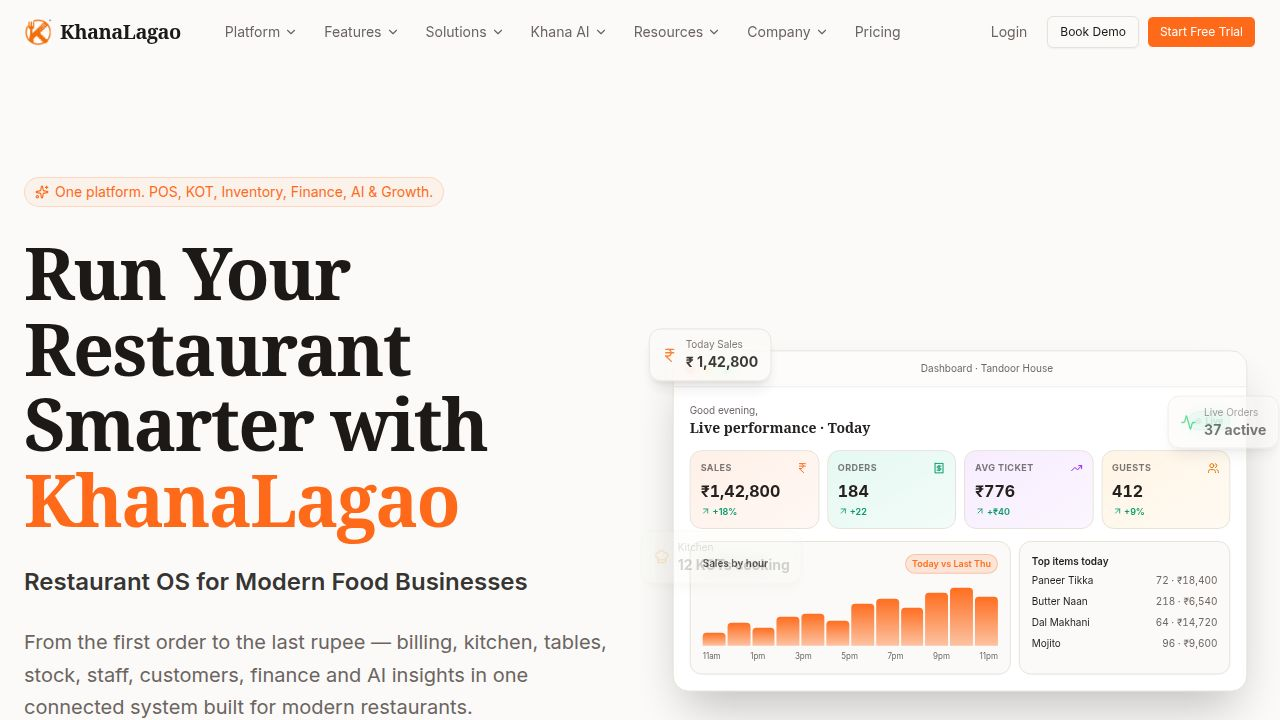
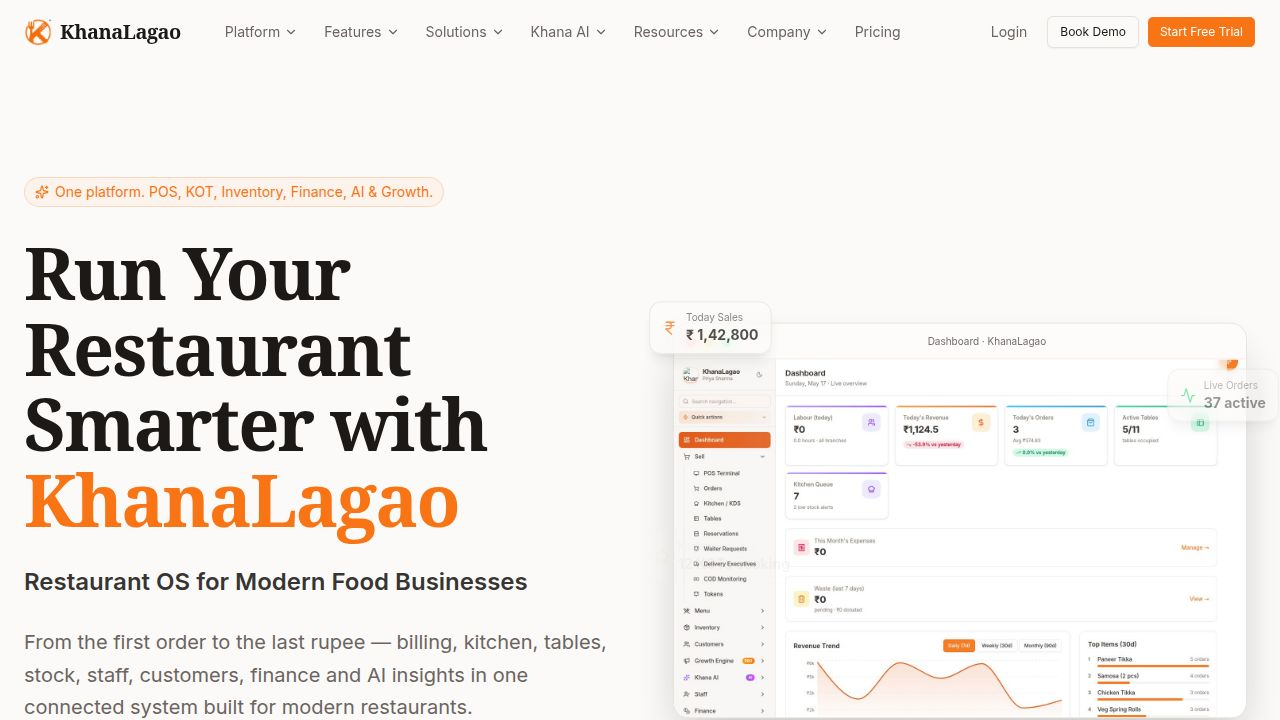
Task #345: Replace marketing-site mockups with real product screenshots.
- Captured 8 polished screenshots from the live restaurant-platform via
  the impersonation hash (#impersonate=<jwt>) using owner seed creds
  (priya@spicegarden.com). Stored as JPEG at 1440x900 in
  artifacts/marketing-site/public/screenshots/:
    dashboard, pos, kitchen (KDS), inventory, pnl, reports, orders, ai.

- Added ScreenshotMockup wrapper in components/mockups/index.tsx that
  renders an <img> inside the same BrowserFrame chrome the CSS mockups
  use, keeping visual consistency. Pointed the MOCKUPS map for
  dashboard / pos / kds / inventory / finance / reports / ai (and a new
  `orders` key) at real screenshots. Kept the CSS mockups exported as
  fallbacks for keys without a screenshot (qr, payroll, growth,
  superadmin, mobile) and as defensive fallbacks if an image fails.

- Updated HeroSection to consume MOCKUPS.dashboard so the hero shows
  the real dashboard, preserving the existing FloatCards overlay.

- Updated shared/ProductMockup (used by SolutionPage and AIPage) to
  render real screenshots for the `dashboard`, `pos`, `kds`, `report`
  kinds, falling back to the existing CSS skeleton bodies otherwise.

- Verified hero, /features/pos-billing, and /features/reports render
  the real screenshots correctly inside the browser-frame chrome.

Replit-Task-Id: dc65232b-e038-47ee-a356-732c3a4ce8c2

Changed region(s): [[0.5, 0.4278, 1.0, 1.0], [0.7188, 0.4583, 0.8125, 0.5194], [0.9062, 0.7333, 0.9375, 0.7639]]

diff --git a/artifacts/marketing-site/src/components/mockups/index.tsx b/artifacts/marketing-site/src/components/mockups/index.tsx
@@ -6,6 +6,7 @@
  * is to look like a real screenshot (tables, charts, badges, status pills,
  * order cards, live metrics) rather than generic placeholder boxes.
  */
+import * as React from "react";
 import type { ReactNode } from "react";
 import {
   IndianRupee, ChefHat, Clock, AlertTriangle, TrendingUp, Users,
@@ -687,22 +688,71 @@ export function MobileAppMockup() {
 }
 
 /* -------------------------------------------------------------------------- */
+/* Real product screenshots                                                   */
+/* -------------------------------------------------------------------------- */
+
+/**
+ * Renders a real screenshot of the live KhanaLagao product inside the same
+ * BrowserFrame chrome used by the CSS mockups, so visuals stay consistent
+ * across the marketing site. Falls back to the CSS mockup if the image fails.
+ */
+export function ScreenshotMockup({
+  src, alt, title, fallback: Fallback,
+}: { src: string; alt: string; title?: string; fallback?: React.ComponentType }) {
+  const base = (import.meta as unknown as { env: { BASE_URL: string } }).env.BASE_URL ?? "/";
+  const url = `${base.replace(/\/$/, "")}${src.startsWith("/") ? src : `/${src}`}`;
+  const [failed, setFailed] = React.useState(false);
+  if (failed && Fallback) {
+    return <Fallback />;
+  }
+  return (
+    <BrowserFrame title={title}>
+      <div className="relative aspect-[16/10] bg-background overflow-hidden">
+        <img
+          src={url}
+          alt={alt}
+          loading="lazy"
+          className="absolute inset-0 w-full h-full object-cover object-top"
+          onError={() => setFailed(true)}
+        />
+      </div>
+    </BrowserFrame>
+  );
+}
+
+const DashboardScreenshot = () => <ScreenshotMockup src="screenshots/dashboard.jpg" alt="KhanaLagao live restaurant dashboard with revenue, orders and kitchen queue" title="Dashboard · KhanaLagao" fallback={DashboardMockup} />;
+const POSScreenshot = () => <ScreenshotMockup src="screenshots/pos.jpg" alt="KhanaLagao POS terminal with tables, menu grid and live order ticket" title="POS · KhanaLagao" fallback={POSMockup} />;
+const KDSScreenshot = () => <ScreenshotMockup src="screenshots/kitchen.jpg" alt="KhanaLagao Kitchen Display System showing live KOT tickets by status" title="Kitchen Display · KhanaLagao" fallback={KitchenKDSMockup} />;
+const InventoryScreenshot = () => <ScreenshotMockup src="screenshots/inventory.jpg" alt="KhanaLagao inventory tracker with stock levels, par levels and low-stock alerts" title="Inventory · KhanaLagao" fallback={InventoryMockup} />;
+const FinanceScreenshot = () => <ScreenshotMockup src="screenshots/pnl.jpg" alt="KhanaLagao P&L dashboard with revenue, costs and net profit statement" title="P&L Dashboard · KhanaLagao" fallback={FinanceMockup} />;
+const ReportsScreenshot = () => <ScreenshotMockup src="screenshots/reports.jpg" alt="KhanaLagao reports and analytics with revenue trend, AOV and tax" title="Reports · KhanaLagao" fallback={ReportsMockup} />;
+const OrdersScreenshot = () => <ScreenshotMockup src="screenshots/orders.jpg" alt="KhanaLagao orders board with pending, confirmed and completed tickets" title="Orders · KhanaLagao" fallback={POSMockup} />;
+const AIScreenshot = () => <ScreenshotMockup src="screenshots/ai.jpg" alt="Khana AI dashboard with credits, generations trend and feature mix" title="Khana AI · KhanaLagao" fallback={KhanaAIChatMockup} />;
+
+/* -------------------------------------------------------------------------- */
 /* Helper map used by template pages                                          */
 /* -------------------------------------------------------------------------- */
 
+/**
+ * Default mockups now point to real product screenshots for the modules where
+ * we have polished captures. The hand-built CSS components remain exported and
+ * are used as visual fallbacks (and for hover-only marketing flourishes /
+ * variants that don't have a screenshot, like qr, payroll, growth, superadmin).
+ */
 export const MOCKUPS = {
-  dashboard: DashboardMockup,
-  pos: POSMockup,
+  dashboard: DashboardScreenshot,
+  pos: POSScreenshot,
   qr: QRMenuMobileMockup,
-  kds: KitchenKDSMockup,
-  inventory: InventoryMockup,
+  kds: KDSScreenshot,
+  inventory: InventoryScreenshot,
   payroll: PayrollMockup,
-  finance: FinanceMockup,
+  finance: FinanceScreenshot,
   growth: GrowthCampaignMockup,
-  ai: KhanaAIChatMockup,
+  ai: AIScreenshot,
   superadmin: SuperAdminMockup,
-  reports: ReportsMockup,
+  reports: ReportsScreenshot,
   mobile: MobileAppMockup,
+  orders: OrdersScreenshot,
 } as const;
 
 export type MockupKey = keyof typeof MOCKUPS;

diff --git a/artifacts/marketing-site/src/components/shared/ProductMockup.tsx b/artifacts/marketing-site/src/components/shared/ProductMockup.tsx
@@ -1,4 +1,5 @@
 import { motion } from "framer-motion";
+import * as React from "react";
 import type { ReactNode } from "react";
 import type { LucideIcon } from "lucide-react";
 
@@ -10,7 +11,25 @@ interface Props {
   accentBars?: number[];
 }
 
+/**
+ * Map of mockup kinds to real product screenshots (captured from the live
+ * KhanaLagao platform). When we have a screenshot for the kind, we render it
+ * inside the same browser-frame chrome; otherwise we fall back to the legacy
+ * skeleton/CSS body below.
+ */
+const SCREENSHOTS: Partial<Record<MockupKind, { src: string; alt: string }>> = {
+  dashboard: { src: "screenshots/dashboard.jpg", alt: "KhanaLagao live restaurant dashboard" },
+  pos: { src: "screenshots/pos.jpg", alt: "KhanaLagao POS terminal" },
+  kds: { src: "screenshots/kitchen.jpg", alt: "KhanaLagao Kitchen Display System" },
+  report: { src: "screenshots/reports.jpg", alt: "KhanaLagao reports and analytics" },
+};
+
 export function ProductMockup({ kind = "dashboard", title = "KhanaLagao", accentBars = [40, 65, 55, 80, 50, 90, 70, 60, 95, 75, 85, 55] }: Props) {
+  const shot = SCREENSHOTS[kind];
+  const base = (import.meta as unknown as { env: { BASE_URL: string } }).env.BASE_URL ?? "/";
+  const [imgFailed, setImgFailed] = React.useState(false);
+  React.useEffect(() => { setImgFailed(false); }, [kind]);
+  const showScreenshot = !!shot && !imgFailed;
   return (
     <div className="relative">
       <div className="aspect-[5/4] rounded-2xl overflow-hidden shadow-2xl border border-border bg-card relative">
@@ -22,12 +41,28 @@ export function ProductMockup({ kind = "dashboard", title = "KhanaLagao", accent
             <div className="ml-3 h-3 w-28 rounded bg-muted" />
             <div className="ml-auto text-[10px] text-muted-foreground font-medium">{title}</div>
           </div>
-          {kind === "dashboard" && <DashboardBody bars={accentBars} />}
-          {kind === "pos" && <POSBody />}
-          {kind === "mobile" && <MobileBody />}
-          {kind === "kds" && <KDSBody />}
-          {kind === "report" && <ReportBody bars={accentBars} />}
-          {kind === "chat" && <ChatBody />}
+          {showScreenshot && shot ? (
+            <div className="flex-1 relative bg-background overflow-hidden">
+              <img
+                src={`${base.replace(/\/$/, "")}/${shot.src}`}
+                alt={shot.alt}
+                loading="lazy"
+                className="absolute inset-0 w-full h-full object-cover object-top"
+                onError={() => setImgFailed(true)}
+              />
+            </div>
+          ) : (
+            <>
+              {kind === "mobile" && <MobileBody />}
+              {kind === "chat" && <ChatBody />}
+              {/* CSS fallbacks render when no screenshot is mapped, or when the
+                  screenshot image fails to load at runtime. */}
+              {kind === "dashboard" && <DashboardBody bars={accentBars} />}
+              {kind === "pos" && <POSBody />}
+              {kind === "kds" && <KDSBody />}
+              {kind === "report" && <ReportBody bars={accentBars} />}
+            </>
+          )}
         </div>
       </div>
     </div>

diff --git a/artifacts/marketing-site/src/components/home/HeroSection.tsx b/artifacts/marketing-site/src/components/home/HeroSection.tsx
@@ -6,7 +6,9 @@ import {
   AlertTriangle, Users, Star, Wallet,
 } from "lucide-react";
 import { COMPANY } from "@/lib/company";
-import { DashboardMockup as RealDashboardMockup } from "@/components/mockups";
+import { MOCKUPS } from "@/components/mockups";
+
+const RealDashboardMockup = MOCKUPS.dashboard;
 
 export function HeroSection() {
   return (
